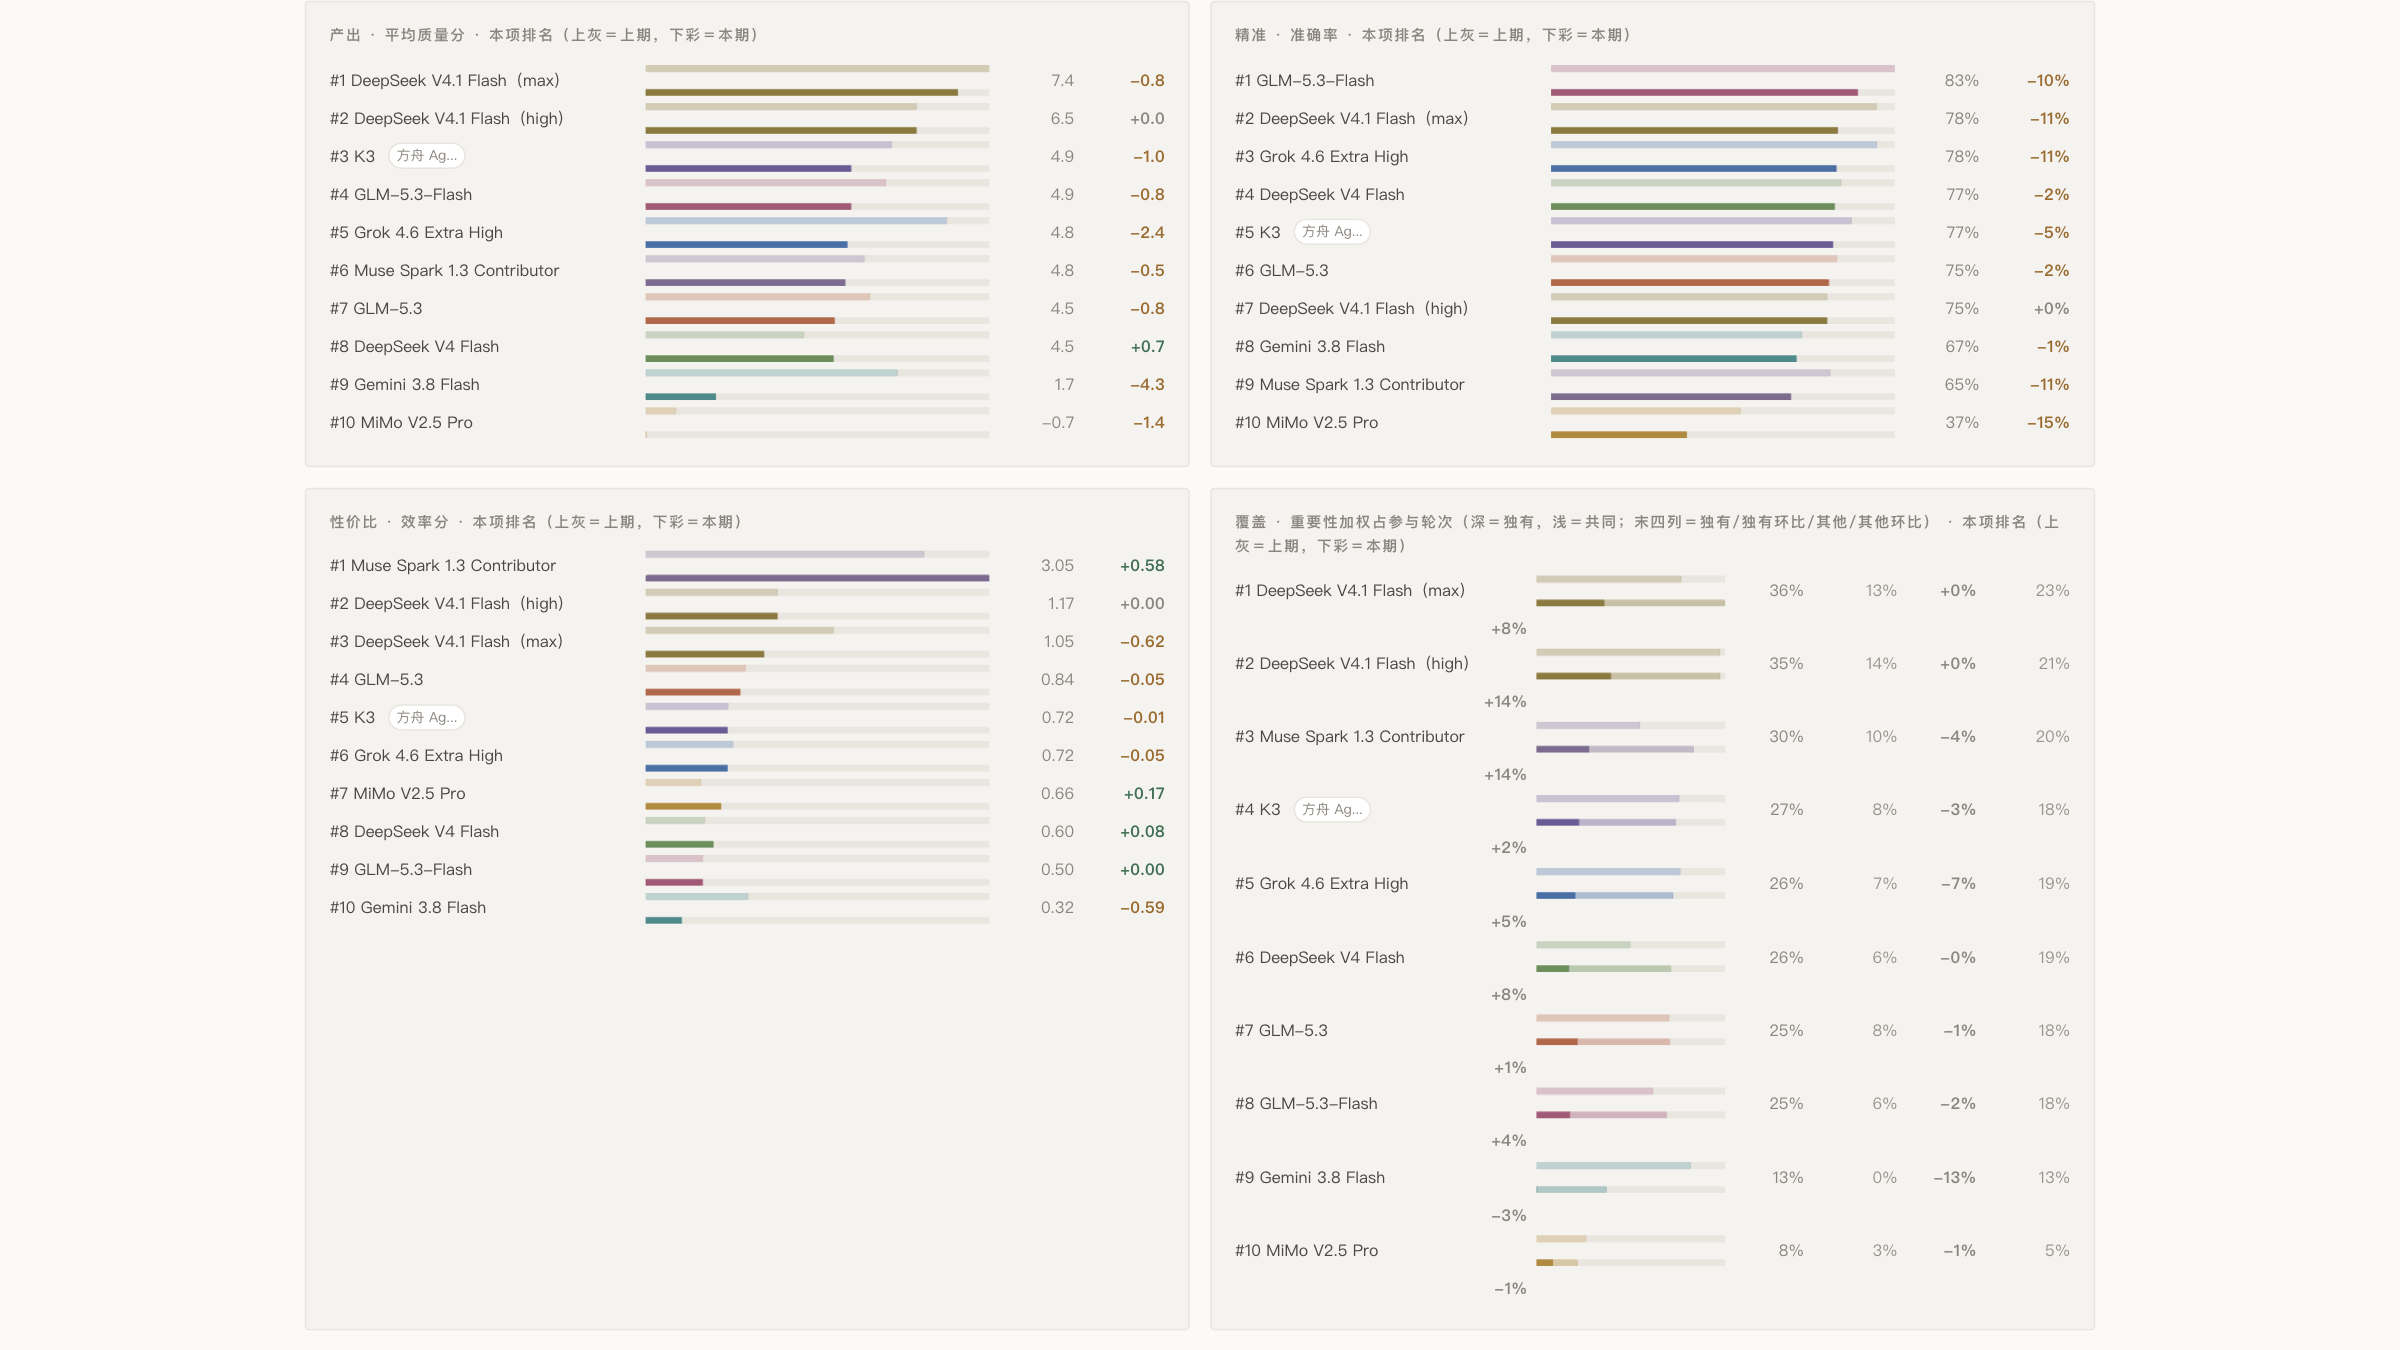
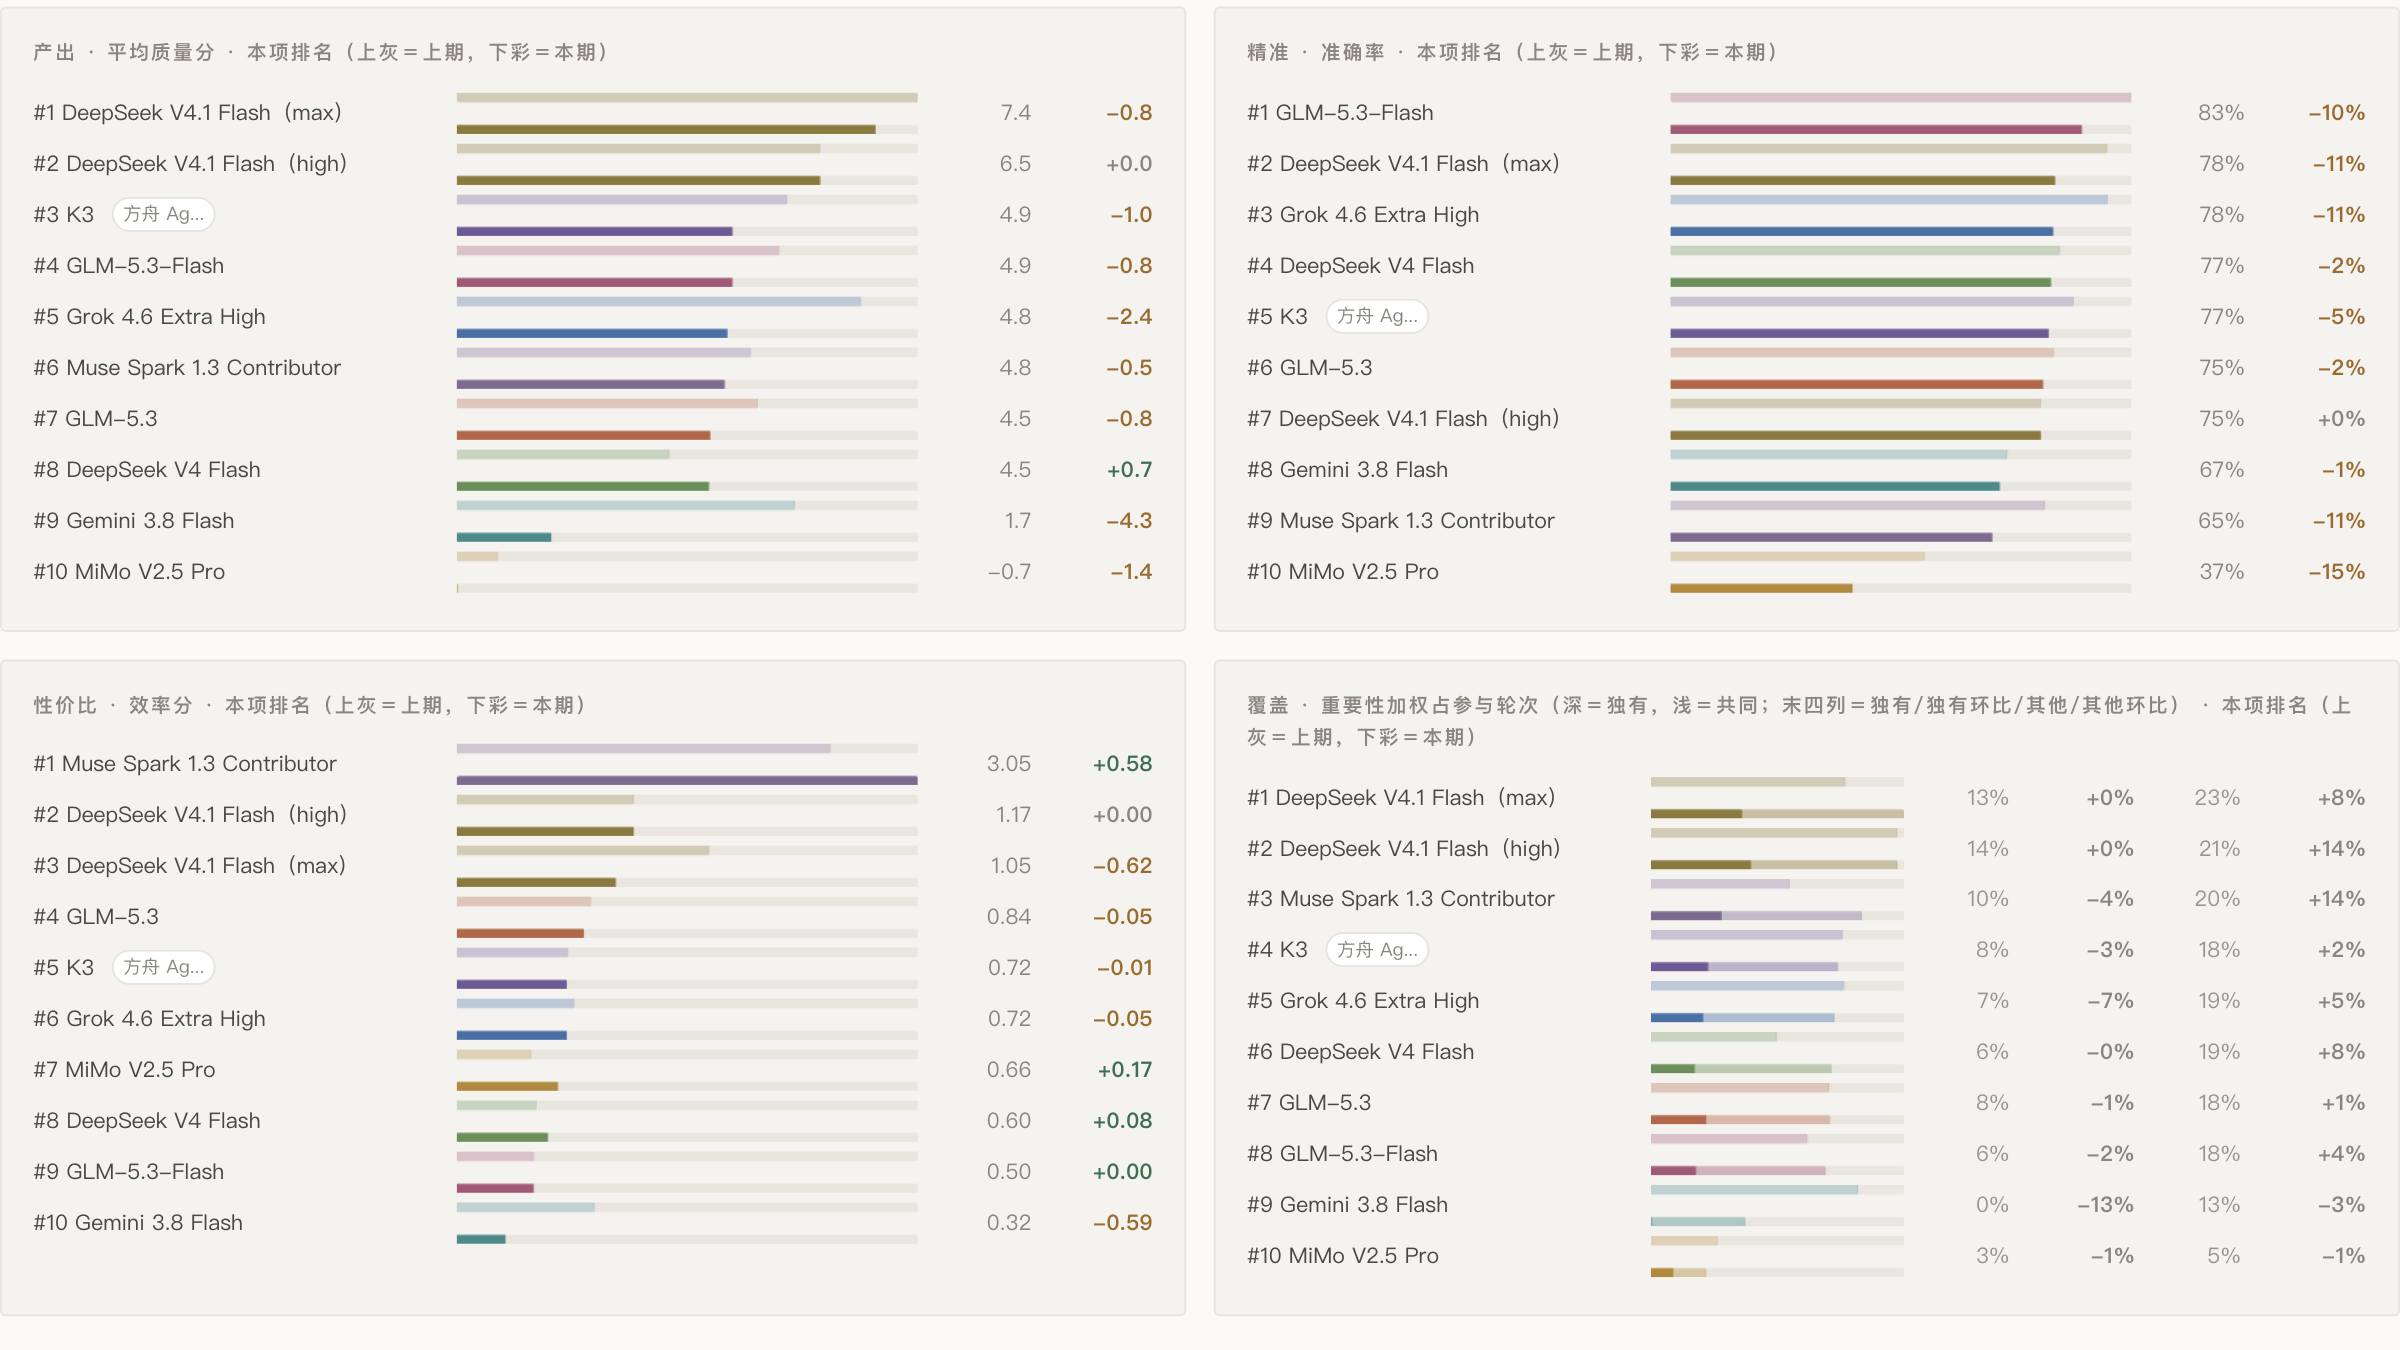
覆盖图四格定稿，两期重生成

diff --git a/report.js b/report.js
@@ -90,7 +90,7 @@ function barRows(panel) {
       return (
         `<div class="bar${ratio ? (r.unique_delta ? " four" : " three") : ""}"><span class="lab">${esc(r.label)}${badge(r.badge)}</span>` +
         chart +
-        `<span class="val">${esc(r.value)}</span>${ratio}<span class="val2">${secondary}</span></div>`
+        `${r.unique_delta && r.other_delta ? "" : `<span class="val">${esc(r.value)}</span>`}${ratio}${secondary ? `<span class="val2">${secondary}</span>` : ""}</div>`
       );
     })
     .join("");

diff --git a/index.html b/index.html
@@ -57,7 +57,7 @@
 <script src="vendor/chart.umd.min.js?v=b933a2b2"></script>
 <script src="vendor/marked.min.js?v=9632727f"></script>
 <script src="charts.js?v=e27afc8f"></script>
-<script src="report.js?v=3e4fef5b"></script>
+<script src="report.js?v=ef972b6a"></script>
 <script src="trend.js?v=d5481229"></script>
 <script src="index.js?v=1b394886"></script>
 </body></html>
